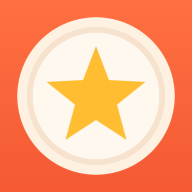
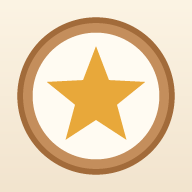
상아·베이지 바탕과 카라멜 강조색, 둥근 모양으로 바꾸고 음식 이모지를 넣는다

diff --git a/index.html b/index.html
@@ -5,7 +5,7 @@
 <meta name="viewport" content="width=device-width, initial-scale=1, viewport-fit=cover, maximum-scale=1">
 <title>맛집 기록서</title>
 <meta name="description" content="사진, 먹은 메뉴, 한줄평, 별점으로 남기는 나만의 맛집 기록">
-<meta name="theme-color" content="#FFF8F1">
+<meta name="theme-color" content="#FFFBF2">
 <meta name="apple-mobile-web-app-capable" content="yes">
 <meta name="mobile-web-app-capable" content="yes">
 <meta name="apple-mobile-web-app-status-bar-style" content="default">
@@ -18,23 +18,25 @@
   html,body{ margin:0; padding:0; }
   :root{
     color-scheme:light;
-    --bg:#FFF8F1;
-    --surface:#FFFFFF;
-    --surface-alt:#F7EEE4;
-    --ink:#2B211A;
-    --ink-soft:#5C4C40;
-    --muted:#A08E80;
-    --line:#F0E3D5;
-    --accent:#FF6A3D;
+    --bg:#FFFBF2;
+    --surface:#FFFEFA;
+    --surface-alt:#F5ECDF;
+    --ink:#3B2E25;
+    --ink-soft:#6B5A4C;
+    --muted:#A39181;
+    --line:#EFE4D4;
+    --accent:#A26B3A;
     --accent-ink:#FFFFFF;
-    --accent-soft:#FFEDE3;
-    --star:#FFB21E;
-    --star-off:#EADCCD;
-    --danger:#E5484D;
-    --radius-lg:20px;
-    --radius-md:14px;
-    --radius-sm:10px;
-    --shadow:0 1px 2px rgba(90,50,20,.05), 0 6px 18px rgba(90,50,20,.06);
+    --accent-soft:#F6EADB;
+    --accent-shadow:rgba(162,107,58,.28);
+    --star:#E8A83A;
+    --star-off:#E9DECF;
+    --danger:#CC5F52;
+    --radius-lg:26px;
+    --radius-md:18px;
+    --radius-sm:14px;
+    --radius-pill:999px;
+    --shadow:0 1px 2px rgba(120,90,50,.04), 0 6px 16px rgba(120,90,50,.05);
     --font-ui:-apple-system,BlinkMacSystemFont,"SF Pro Text","Apple SD Gothic Neo","Segoe UI",Roboto,"Noto Sans KR",sans-serif;
   }
   *{ box-sizing:border-box; -webkit-tap-highlight-color:transparent; }
@@ -64,6 +66,7 @@
   }
   .fd-head{ display:flex; align-items:flex-start; justify-content:space-between; gap:12px; }
   .fd-head h1{ margin:0; font-size:26px; letter-spacing:-.5px; font-weight:800; }
+  .fd-h1-emoji{ display:inline-block; font-size:22px; transform:rotate(-8deg); }
   .fd-sub{ margin:2px 0 0; color:var(--muted); font-size:13.5px; }
   .fd-icon-btn{
     width:40px; height:40px; border-radius:50%; background:var(--surface);
@@ -73,7 +76,7 @@
 
   .fd-search{
     margin-top:16px; display:flex; align-items:center; gap:8px;
-    background:var(--surface); border-radius:var(--radius-md); padding:0 14px; height:46px;
+    background:var(--surface); border-radius:var(--radius-pill); padding:0 14px; height:46px;
     box-shadow:var(--shadow);
   }
   .fd-search svg{ width:18px; height:18px; color:var(--muted); flex:none; }
@@ -88,15 +91,15 @@
   }
   .fd-chips::-webkit-scrollbar{ display:none; }
   .fd-chip{
-    flex:none; height:34px; padding:0 13px; border-radius:17px; background:var(--surface);
+    flex:none; height:34px; padding:0 13px; border-radius:var(--radius-pill); background:var(--surface);
     border:1px solid var(--line); font-size:14px; color:var(--ink-soft); white-space:nowrap;
   }
-  .fd-chip.on{ background:var(--ink); border-color:var(--ink); color:#fff; font-weight:600; }
+  .fd-chip.on{ background:var(--accent); border-color:var(--accent); color:var(--accent-ink); font-weight:600; }
 
   .fd-sortbar{ display:flex; align-items:center; justify-content:space-between; margin:14px 2px 10px; }
   .fd-count{ font-size:13px; color:var(--muted); }
-  .fd-seg{ display:flex; background:var(--surface-alt); border-radius:10px; padding:3px; }
-  .fd-seg button{ font-size:13px; padding:5px 10px; border-radius:8px; color:var(--muted); }
+  .fd-seg{ display:flex; background:var(--surface-alt); border-radius:var(--radius-pill); padding:3px; }
+  .fd-seg button{ font-size:13px; padding:6px 12px; border-radius:var(--radius-pill); color:var(--muted); }
   .fd-seg button.on{ background:var(--surface); color:var(--ink); font-weight:600; box-shadow:0 1px 3px rgba(0,0,0,.08); }
 
   /* ---- list ---- */
@@ -112,19 +115,19 @@
   .fd-thumb img{ width:100%; height:100%; object-fit:cover; display:block; }
   .fd-thumb-count{
     position:absolute; right:5px; bottom:5px; font-size:11px; font-weight:600; color:#fff;
-    background:rgba(0,0,0,.45); border-radius:8px; padding:1px 6px;
+    background:rgba(59,46,37,.5); border-radius:var(--radius-pill); padding:1px 7px;
   }
   .fd-card-body{ flex:1; min-width:0; display:flex; flex-direction:column; }
   .fd-card-top{ display:flex; align-items:center; gap:6px; }
   .fd-card-title{ font-weight:700; font-size:16.5px; white-space:nowrap; overflow:hidden; text-overflow:ellipsis; min-width:0; }
-  .fd-again{ flex:none; font-size:11px; font-weight:700; color:var(--accent); background:var(--accent-soft); border-radius:6px; padding:1px 6px; }
+  .fd-again{ flex:none; font-size:11px; font-weight:700; color:var(--accent); background:var(--accent-soft); border-radius:var(--radius-pill); padding:2px 8px; }
   .fd-card-meta{ font-size:12.5px; color:var(--muted); margin-top:1px; white-space:nowrap; overflow:hidden; text-overflow:ellipsis; }
   .fd-card-quote{
     font-size:14px; color:var(--ink-soft); margin-top:5px;
     display:-webkit-box; -webkit-line-clamp:2; -webkit-box-orient:vertical; overflow:hidden; word-break:keep-all;
   }
   .fd-menu-chips{ display:flex; gap:4px; flex-wrap:wrap; margin-top:6px; }
-  .fd-menu-chip{ font-size:12px; background:var(--surface-alt); color:var(--ink-soft); border-radius:6px; padding:2px 7px; max-width:100%; overflow:hidden; text-overflow:ellipsis; white-space:nowrap; }
+  .fd-menu-chip{ font-size:12px; background:var(--surface-alt); color:var(--ink-soft); border-radius:var(--radius-pill); padding:3px 9px; max-width:100%; overflow:hidden; text-overflow:ellipsis; white-space:nowrap; }
 
   .fd-stars-ro{ display:inline-flex; letter-spacing:-1px; color:var(--star-off); font-size:13px; }
   .fd-stars-ro .on{ color:var(--star); }
@@ -137,14 +140,14 @@
 
   .fd-fab{
     position:fixed; left:50%; transform:translateX(-50%); bottom:calc(env(safe-area-inset-bottom) + 20px);
-    height:54px; padding:0 26px; border-radius:27px; background:var(--accent); color:var(--accent-ink);
-    font-weight:700; font-size:16px; box-shadow:0 8px 22px rgba(255,106,61,.38); z-index:10;
+    height:54px; padding:0 26px; border-radius:var(--radius-pill); background:var(--accent); color:var(--accent-ink);
+    font-weight:700; font-size:16px; box-shadow:0 8px 22px var(--accent-shadow); z-index:10;
     display:flex; align-items:center; gap:6px; white-space:nowrap;
   }
   .fd-fab:active{ transform:translateX(-50%) scale(.96); }
 
   /* ---- sheets ---- */
-  .fd-backdrop{ position:fixed; inset:0; background:rgba(30,18,10,.35); z-index:20; animation:fd-fade-in .2s ease; }
+  .fd-backdrop{ position:fixed; inset:0; background:rgba(59,46,37,.28); z-index:20; animation:fd-fade-in .2s ease; }
   .fd-sheet{
     position:fixed; inset:0; z-index:21; background:var(--bg); display:flex; flex-direction:column;
     animation:fd-sheet-in .28s cubic-bezier(.2,.8,.2,1);
@@ -156,7 +159,7 @@
     border-bottom:1px solid transparent;
   }
   .fd-sheet-head h2{ margin:0; font-size:16.5px; font-weight:700; flex:1; text-align:center; }
-  .fd-text-btn{ min-width:64px; height:40px; padding:0 10px; font-size:16px; color:var(--ink-soft); border-radius:10px; }
+  .fd-text-btn{ min-width:64px; height:40px; padding:0 10px; font-size:16px; color:var(--ink-soft); border-radius:var(--radius-pill); }
   .fd-text-btn.strong{ color:var(--accent); font-weight:700; }
   .fd-sheet-body{
     flex:1; overflow-y:auto; -webkit-overflow-scrolling:touch; overscroll-behavior:contain;
@@ -174,7 +177,7 @@
   }
   .fd-textarea{ height:auto; min-height:88px; padding:12px 14px; resize:none; line-height:1.5; }
   .fd-input:focus, .fd-textarea:focus{ border-color:var(--accent); }
-  .fd-input::placeholder, .fd-textarea::placeholder{ color:#C4B4A6; }
+  .fd-input::placeholder, .fd-textarea::placeholder{ color:#C9B9A8; }
   .fd-input.big{ height:54px; font-size:18px; font-weight:700; }
   .fd-counter{ text-align:right; font-size:12px; color:var(--muted); margin-top:4px; }
   .fd-row{ display:flex; gap:8px; }
@@ -184,13 +187,13 @@
   .fd-photos{ display:grid; grid-template-columns:repeat(4, 1fr); gap:8px; }
   .fd-photo-tile{ position:relative; aspect-ratio:1; border-radius:var(--radius-sm); overflow:hidden; background:var(--surface-alt); }
   .fd-photo-tile img{ width:100%; height:100%; object-fit:cover; display:block; }
-  .fd-photo-tile .fd-cover{ position:absolute; left:4px; top:4px; font-size:10.5px; font-weight:700; color:#fff; background:var(--accent); border-radius:5px; padding:1px 5px; }
+  .fd-photo-tile .fd-cover{ position:absolute; left:4px; top:4px; font-size:10.5px; font-weight:700; color:#fff; background:var(--accent); border-radius:var(--radius-pill); padding:1px 7px; }
   .fd-photo-del{
     position:absolute; right:3px; top:3px; width:24px; height:24px; border-radius:50%;
     background:rgba(0,0,0,.55); color:#fff; font-size:13px; line-height:24px; text-align:center;
   }
   .fd-photo-add{
-    aspect-ratio:1; border-radius:var(--radius-sm); border:1.5px dashed #E2CDB9; background:var(--surface);
+    aspect-ratio:1; border-radius:var(--radius-sm); border:1.5px dashed #DCC7AE; background:var(--surface);
     display:flex; flex-direction:column; align-items:center; justify-content:center; gap:2px; color:var(--muted); font-size:12px;
   }
   .fd-photo-add svg{ width:24px; height:24px; color:var(--accent); }
@@ -217,18 +220,18 @@
   .fd-menu-edit .fd-stars-in{ flex:none; }
   .fd-menu-del{ flex:none !important; width:34px; height:34px; border-radius:50%; color:var(--muted); font-size:15px; }
   .fd-add-line{
-    width:100%; height:46px; border-radius:var(--radius-md); border:1.5px dashed #E2CDB9; color:var(--accent);
+    width:100%; height:48px; border-radius:var(--radius-pill); border:1.5px dashed #DCC7AE; color:var(--accent);
     font-weight:700; font-size:14.5px; background:transparent;
   }
 
   .fd-toggle{ display:flex; gap:8px; }
   .fd-toggle button{
-    flex:1; height:48px; border-radius:var(--radius-md); background:var(--surface); border:1px solid var(--line);
+    flex:1; height:48px; border-radius:var(--radius-pill); background:var(--surface); border:1px solid var(--line);
     font-size:14.5px; color:var(--ink-soft);
   }
   .fd-toggle button.on{ border-color:var(--accent); background:var(--accent-soft); color:var(--accent); font-weight:700; }
 
-  .fd-danger-btn{ width:100%; height:48px; margin-top:28px; border-radius:var(--radius-md); color:var(--danger); background:var(--surface); border:1px solid var(--line); font-weight:600; }
+  .fd-danger-btn{ width:100%; height:48px; margin-top:28px; border-radius:var(--radius-pill); color:var(--danger); background:var(--surface); border:1px solid var(--line); font-weight:600; }
 
   /* ---- detail ---- */
   .fd-gallery{ position:relative; margin:4px -16px 0; }
@@ -236,7 +239,7 @@
   .fd-gallery-track::-webkit-scrollbar{ display:none; }
   .fd-gallery-track button{ flex:none; width:100%; aspect-ratio:4/3; scroll-snap-align:center; background:var(--surface-alt); }
   .fd-gallery-track img{ width:100%; height:100%; object-fit:cover; display:block; }
-  .fd-gallery-count{ position:absolute; right:26px; bottom:12px; font-size:12px; font-weight:600; color:#fff; background:rgba(0,0,0,.45); border-radius:10px; padding:2px 9px; pointer-events:none; }
+  .fd-gallery-count{ position:absolute; right:26px; bottom:12px; font-size:12px; font-weight:600; color:#fff; background:rgba(59,46,37,.5); border-radius:var(--radius-pill); padding:2px 10px; pointer-events:none; }
   .fd-detail-hero-empty{ margin:4px 0 0; height:130px; border-radius:var(--radius-lg); background:var(--surface-alt); display:grid; place-items:center; font-size:58px; }
   .fd-detail-title{ margin:18px 0 0; font-size:24px; font-weight:800; letter-spacing:-.4px; word-break:keep-all; }
   .fd-detail-meta{ color:var(--muted); font-size:14px; margin-top:4px; }
@@ -245,7 +248,7 @@
     margin-top:16px; background:var(--surface); border-radius:var(--radius-lg); padding:16px 18px; box-shadow:var(--shadow);
     font-size:17px; font-weight:600; line-height:1.5; word-break:keep-all; position:relative;
   }
-  .fd-quote-box::before{ content:"“"; position:absolute; left:10px; top:-8px; font-size:44px; color:var(--accent); opacity:.35; font-family:Georgia,serif; }
+  .fd-quote-box::before{ content:"“"; position:absolute; left:12px; top:-8px; font-size:44px; color:var(--accent); opacity:.3; font-family:Georgia,serif; }
   .fd-section-title{ font-size:14px; font-weight:700; color:var(--ink-soft); margin:24px 2px 8px; }
   .fd-menu-list{ background:var(--surface); border-radius:var(--radius-lg); box-shadow:var(--shadow); overflow:hidden; }
   .fd-menu-item{ padding:13px 16px; }
@@ -255,7 +258,7 @@
   .fd-menu-item-note{ font-size:14px; color:var(--ink-soft); margin-top:3px; }
   .fd-memo{ background:var(--surface); border-radius:var(--radius-lg); box-shadow:var(--shadow); padding:14px 16px; white-space:pre-wrap; word-break:break-word; font-size:14.5px; color:var(--ink-soft); }
   .fd-detail-actions{ display:flex; gap:8px; margin-top:28px; }
-  .fd-detail-actions button{ flex:1; height:50px; border-radius:var(--radius-md); font-weight:700; }
+  .fd-detail-actions button{ flex:1; height:52px; border-radius:var(--radius-pill); font-weight:700; }
   .fd-btn-primary{ background:var(--accent); color:var(--accent-ink); }
   .fd-btn-ghost{ background:var(--surface); border:1px solid var(--line); color:var(--danger); }
 
@@ -270,7 +273,7 @@
 
   /* ---- action sheet ---- */
   .fd-action-sheet{
-    position:fixed; left:0; right:0; bottom:0; z-index:31; background:var(--surface); border-radius:22px 22px 0 0;
+    position:fixed; left:0; right:0; bottom:0; z-index:31; background:var(--surface); border-radius:var(--radius-lg) var(--radius-lg) 0 0;
     padding:10px 16px calc(env(safe-area-inset-bottom) + 16px); animation:fd-sheet-in .25s cubic-bezier(.2,.8,.2,1);
     max-width:560px; margin:0 auto;
   }
@@ -278,27 +281,27 @@
   .fd-grab{ width:38px; height:5px; border-radius:3px; background:var(--line); margin:0 auto 12px; }
   .fd-action-sheet h3{ margin:0 4px 4px; font-size:17px; }
   .fd-action-sheet p{ margin:0 4px 14px; color:var(--muted); font-size:13px; }
-  .fd-action{ display:flex; align-items:center; gap:12px; width:100%; padding:14px 6px; border-radius:12px; text-align:left; font-size:16px; }
+  .fd-action{ display:flex; align-items:center; gap:12px; width:100%; padding:14px 8px; border-radius:var(--radius-md); text-align:left; font-size:16px; }
   .fd-action:active{ background:var(--surface-alt); }
-  .fd-action span:first-child{ width:38px; height:38px; border-radius:12px; background:var(--accent-soft); display:grid; place-items:center; font-size:19px; flex:none; }
+  .fd-action span:first-child{ width:40px; height:40px; border-radius:50%; background:var(--accent-soft); display:grid; place-items:center; font-size:19px; flex:none; }
   .fd-action small{ display:block; color:var(--muted); font-size:12.5px; }
 
   /* ---- toast ---- */
   .fd-toast{
     position:fixed; left:16px; right:16px; bottom:calc(env(safe-area-inset-bottom) + 88px); z-index:50;
-    max-width:420px; margin:0 auto; background:rgba(43,33,26,.94); color:#fff; border-radius:14px;
+    max-width:420px; margin:0 auto; background:rgba(59,46,37,.94); color:#fff; border-radius:var(--radius-pill);
     padding:13px 16px; font-size:14.5px; display:flex; align-items:center; justify-content:space-between; gap:10px;
     opacity:0; transform:translateY(10px); pointer-events:none; transition:opacity .2s ease, transform .2s ease;
   }
   .fd-toast.show{ opacity:1; transform:none; pointer-events:auto; }
-  .fd-toast button{ color:#FFB89E; font-weight:700; flex:none; padding:4px 2px; }
+  .fd-toast button{ color:#F3CC97; font-weight:700; flex:none; padding:4px 2px; }
 </style>
 </head>
 <body>
 <div class="fd-app">
   <header class="fd-head">
     <div>
-      <h1>맛집 기록서</h1>
+      <h1>맛집 기록서 <span class="fd-h1-emoji">🍙</span></h1>
       <p class="fd-sub" id="fd-stats"></p>
     </div>
     <button class="fd-icon-btn fd-press" id="fd-menu-btn" aria-label="백업과 설정">
@@ -320,7 +323,7 @@
   </div>
   <main class="fd-list" id="fd-list"></main>
 </div>
-<button class="fd-fab" id="fd-add"><span style="font-size:20px;line-height:1">＋</span> 맛집 기록하기</button>
+<button class="fd-fab" id="fd-add"><span style="font-size:19px;line-height:1">🍴</span> 맛집 기록하기</button>
 <input type="file" id="fd-photo-input" accept="image/*" multiple hidden>
 <input type="file" id="fd-import-input" accept="application/json,.json" hidden>
 <div class="fd-toast" id="fd-toast"><span></span><button type="button" hidden></button></div>
@@ -337,7 +340,7 @@
     { name:'아시안', emoji:'🍜' }, { name:'카페·디저트', emoji:'🍰' }, { name:'술집', emoji:'🍻' },
     { name:'기타', emoji:'🍴' }
   ];
-  var RATE_WORDS = ['별을 눌러요','별로였어요', '그저 그래요', '괜찮았어요', '맛있어요!', '인생 맛집 🔥'];
+  var RATE_WORDS = ['별을 눌러요', '별로였어요 😕', '그저 그래요 😐', '괜찮았어요 🙂', '맛있어요! 😋', '인생 맛집 🔥'];
 
   // ---------- 작은 도구 ----------
   function $(sel, root){ return (root || document).querySelector(sel); }
@@ -584,7 +587,7 @@
     $('#fd-sort').style.visibility = state.places.length ? '' : 'hidden';
     $all('#fd-sort button').forEach(function(b){ b.classList.toggle('on', b.dataset.sort === ui.sort); });
     if (!state.places.length) {
-      el.innerHTML = '<div class="fd-empty"><div class="fd-empty-emoji">🍽</div><h2>아직 기록한 맛집이 없어요</h2><p>아래 버튼을 눌러 첫 맛집을 남겨 보세요</p></div>';
+      el.innerHTML = '<div class="fd-empty"><div class="fd-empty-emoji">🍜🍙🍰</div><h2>아직 기록한 맛집이 없어요</h2><p>아래 버튼을 눌러 첫 맛집을 남겨 보세요</p></div>';
     } else if (!list.length) {
       el.innerHTML = '<div class="fd-empty"><div class="fd-empty-emoji">🔍</div><h2>찾는 맛집이 없어요</h2><p>다른 말로 찾아보거나 분류를 바꿔 보세요</p></div>';
     } else {
@@ -674,16 +677,16 @@
     if (p.oneLiner) html += '<div class="fd-quote-box">' + esc(p.oneLiner) + '</div>';
     var menus = p.menus.filter(function(m){ return m.name || m.note || m.rating; });
     if (menus.length) {
-      html += '<div class="fd-section-title">먹은 메뉴 ' + menus.length + '</div><div class="fd-menu-list">' +
+      html += '<div class="fd-section-title">🍽 먹은 메뉴 ' + menus.length + '</div><div class="fd-menu-list">' +
         menus.map(function(m){
           return '<div class="fd-menu-item"><div class="fd-menu-item-top"><span class="fd-menu-item-name">' + esc(m.name || '이름 없는 메뉴') + '</span>' +
             (m.rating ? starsRO(m.rating) : '') + '</div>' +
             (m.note ? '<div class="fd-menu-item-note">' + esc(m.note) + '</div>' : '') + '</div>';
         }).join('') + '</div>';
     }
-    if (p.memo) html += '<div class="fd-section-title">메모</div><div class="fd-memo">' + esc(p.memo) + '</div>';
+    if (p.memo) html += '<div class="fd-section-title">📝 메모</div><div class="fd-memo">' + esc(p.memo) + '</div>';
     html += '<div class="fd-detail-actions"><button class="fd-btn-ghost fd-press" data-act="delete">지우기</button>' +
-      '<button class="fd-btn-primary fd-press" data-act="edit">고치기</button></div>';
+      '<button class="fd-btn-primary fd-press" data-act="edit">✏ 고치기</button></div>';
     return html;
   }
   function fillDetail(sheet, p){
@@ -741,7 +744,7 @@
       state.places.splice(Math.min(pendingDelete.index, state.places.length), 0, place);
       pendingDelete = null;
       save(); render();
-      toast('되돌렸어요');
+      toast('되돌렸어요 🙌');
     }, 7000);
   }
 
@@ -803,7 +806,7 @@
         '<div class="fd-counter" id="fd-ed-one-count">' + d.oneLiner.length + ' / 60</div></div>' +
       '<div class="fd-field"><label class="fd-label">먹은 메뉴 <small>메뉴마다 별점·한마디도 남길 수 있어요</small></label>' +
         '<div class="fd-menus" id="fd-ed-menus">' + d.menus.map(menuEditHTML).join('') + '</div>' +
-        '<button type="button" class="fd-add-line fd-press" data-act="add-menu" style="margin-top:8px">＋ 메뉴 추가</button></div>' +
+        '<button type="button" class="fd-add-line fd-press" data-act="add-menu" style="margin-top:8px">🥢 메뉴 추가</button></div>' +
       '<div class="fd-field"><label class="fd-label">다시 갈까요?</label><div class="fd-toggle" id="fd-ed-revisit">' +
         '<button type="button" data-revisit="yes"' + (d.revisit === 'yes' ? ' class="on"' : '') + '>😋 또 갈래요</button>' +
         '<button type="button" data-revisit="no"' + (d.revisit === 'no' ? ' class="on"' : '') + '>🙂 한 번이면 충분</button></div></div>' +
@@ -1006,7 +1009,7 @@
       sheet.close();
       var detail = $('.fd-sheet[data-detail="' + place.id + '"]');
       if (detail) fillDetail(detail, place);
-      toast(cur ? '고쳤어요' : '맛집을 기록했어요 🍽');
+      toast(cur ? '고쳤어요 ✨' : '맛집을 기록했어요 🍽');
     }
 
     if (!src) setTimeout(function(){ if (!sheet.closed && !draft.name) $('#fd-ed-name', sheet).focus(); }, 320);
@@ -1054,7 +1057,7 @@
     a.href = URL.createObjectURL(file); a.download = name;
     document.body.appendChild(a); a.click(); a.remove();
     setTimeout(function(){ URL.revokeObjectURL(a.href); }, 4000);
-    toast('백업 파일을 저장했어요');
+    toast('백업 파일을 저장했어요 📦');
   }
   function importBackup(){
     var input = $('#fd-import-input');
